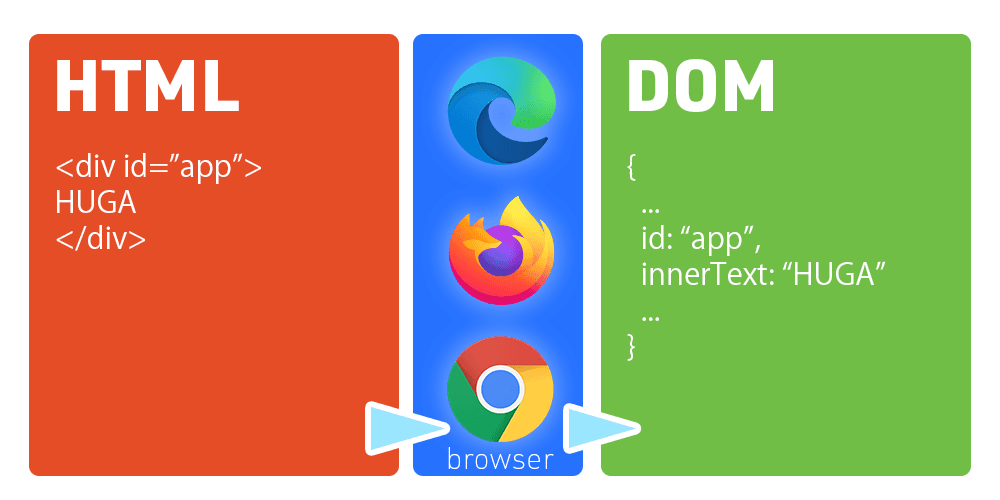
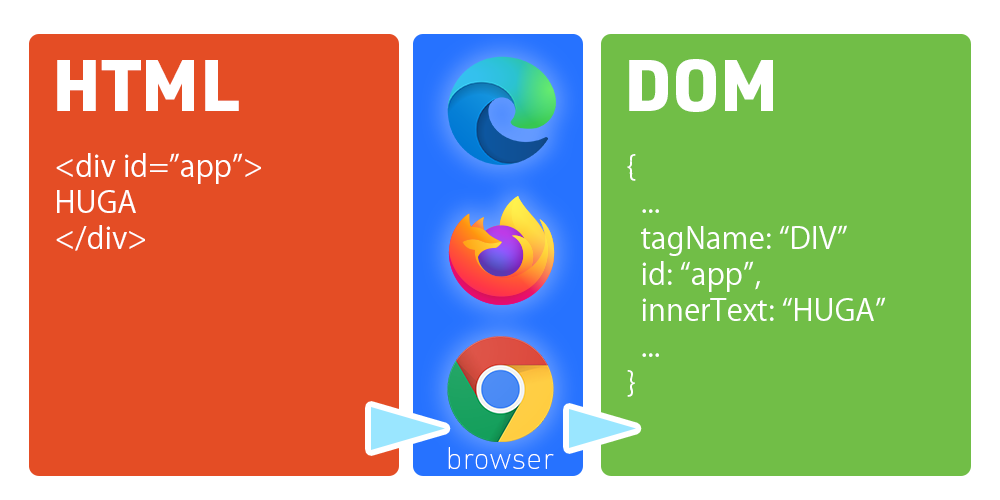
画像差し替え、記述追加

Changed region(s): [[0.62, 0.45, 0.899, 0.66], [0.62, 0.69, 0.651, 0.72]]

diff --git a/articles/what-is-javascript.md b/articles/what-is-javascript.md
@@ -36,11 +36,8 @@ element.innerText = "Hoge";
 
 このようなコードを書くことで内部の文字を変更できます。
 `element`の部分は変更したい要素を取得してきていることが1行目のコードから分かりますが、なぜ`innerText`に`Hoge`という文字列を代入することで文字が変わるのでしょうか。
-理解するためにはDOMを理解すると非常に理屈が簡単に分かります。
 
 ### HTMLではなくDOMとしてマークアップを理解する
-
-ではDOMとは何でしょうか、自分も最初はいきなりHTMLを書いていただけなのにDOMという訳の分からない単語が出てきたことにより思考停止してしまいました。
 
 ### DOMとは何か
 
@@ -52,19 +49,14 @@ DOM = Document Object Model
 
 ```js
 {
-  key: "value",
-}
-```
-
-または入れ子構造を持つことも可能です。
-
-```js
-{
   object: {
     key1: "aaa",
     key2: 0
   }
 }
 ```
+
+このDOMというオブジェクトは前述したHTMLの記述を元に作成されています。
+その際に
 
 ## JavascriptでDOMを操作する
